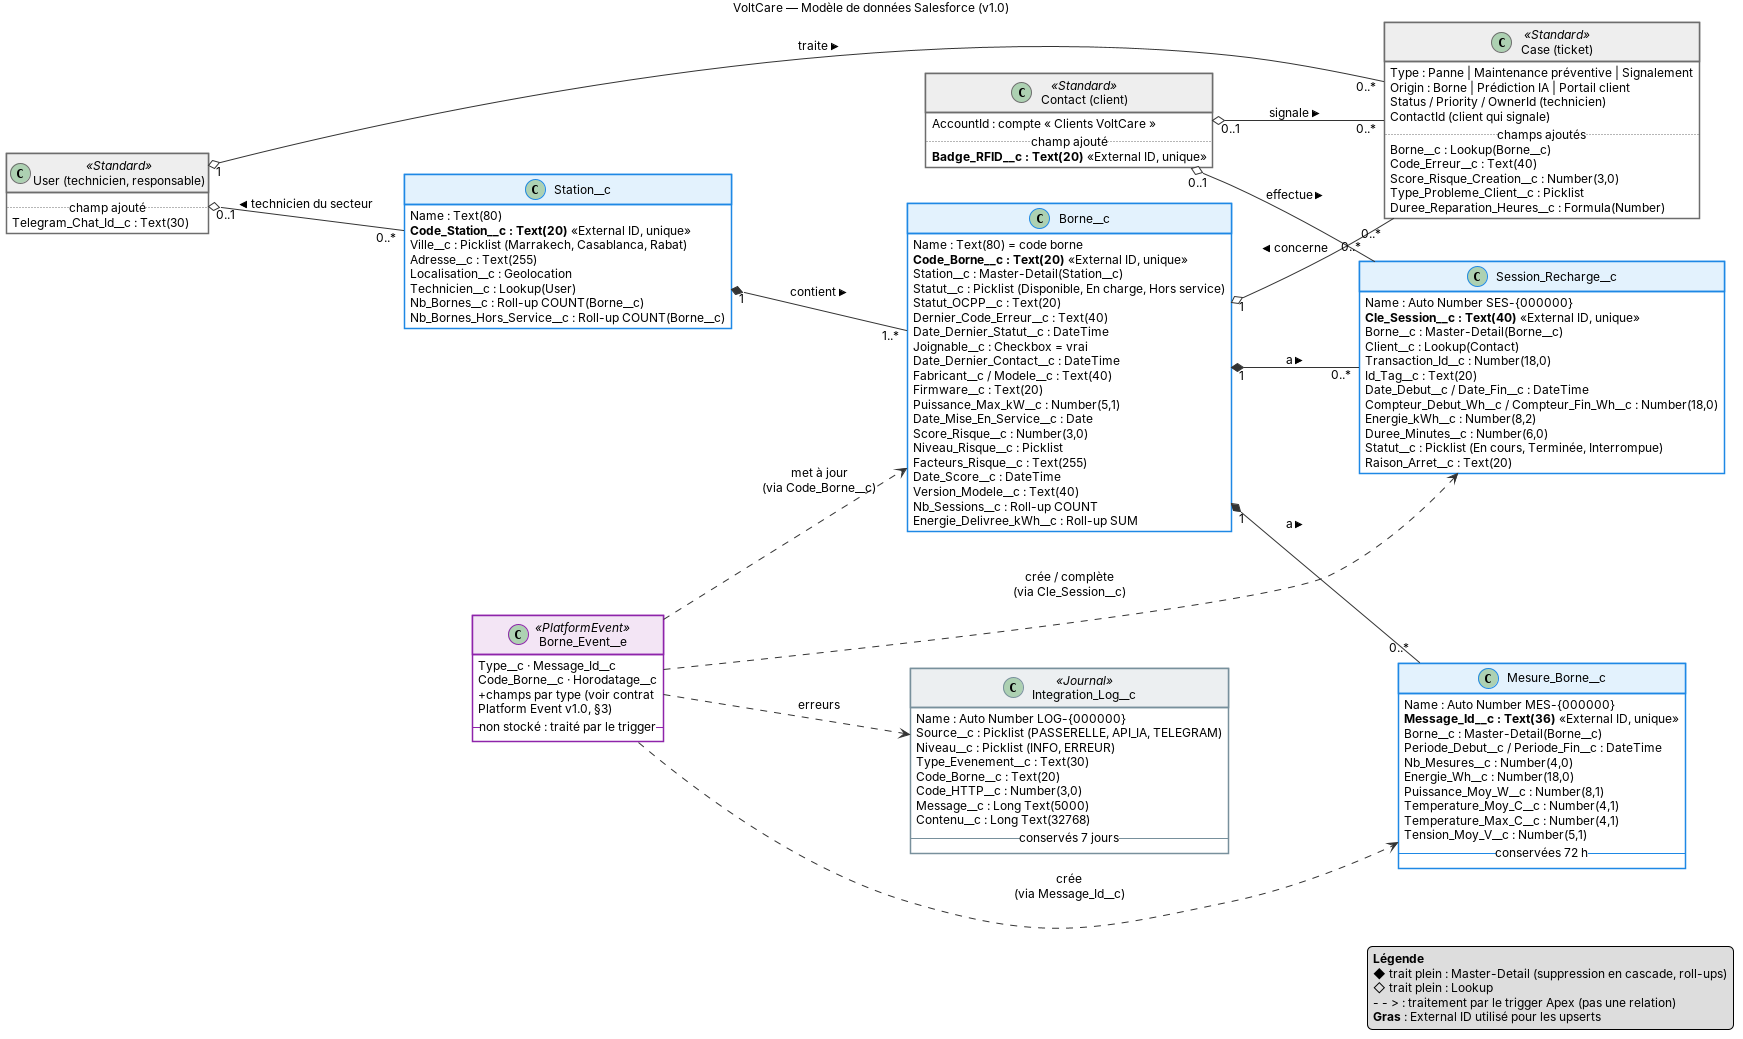
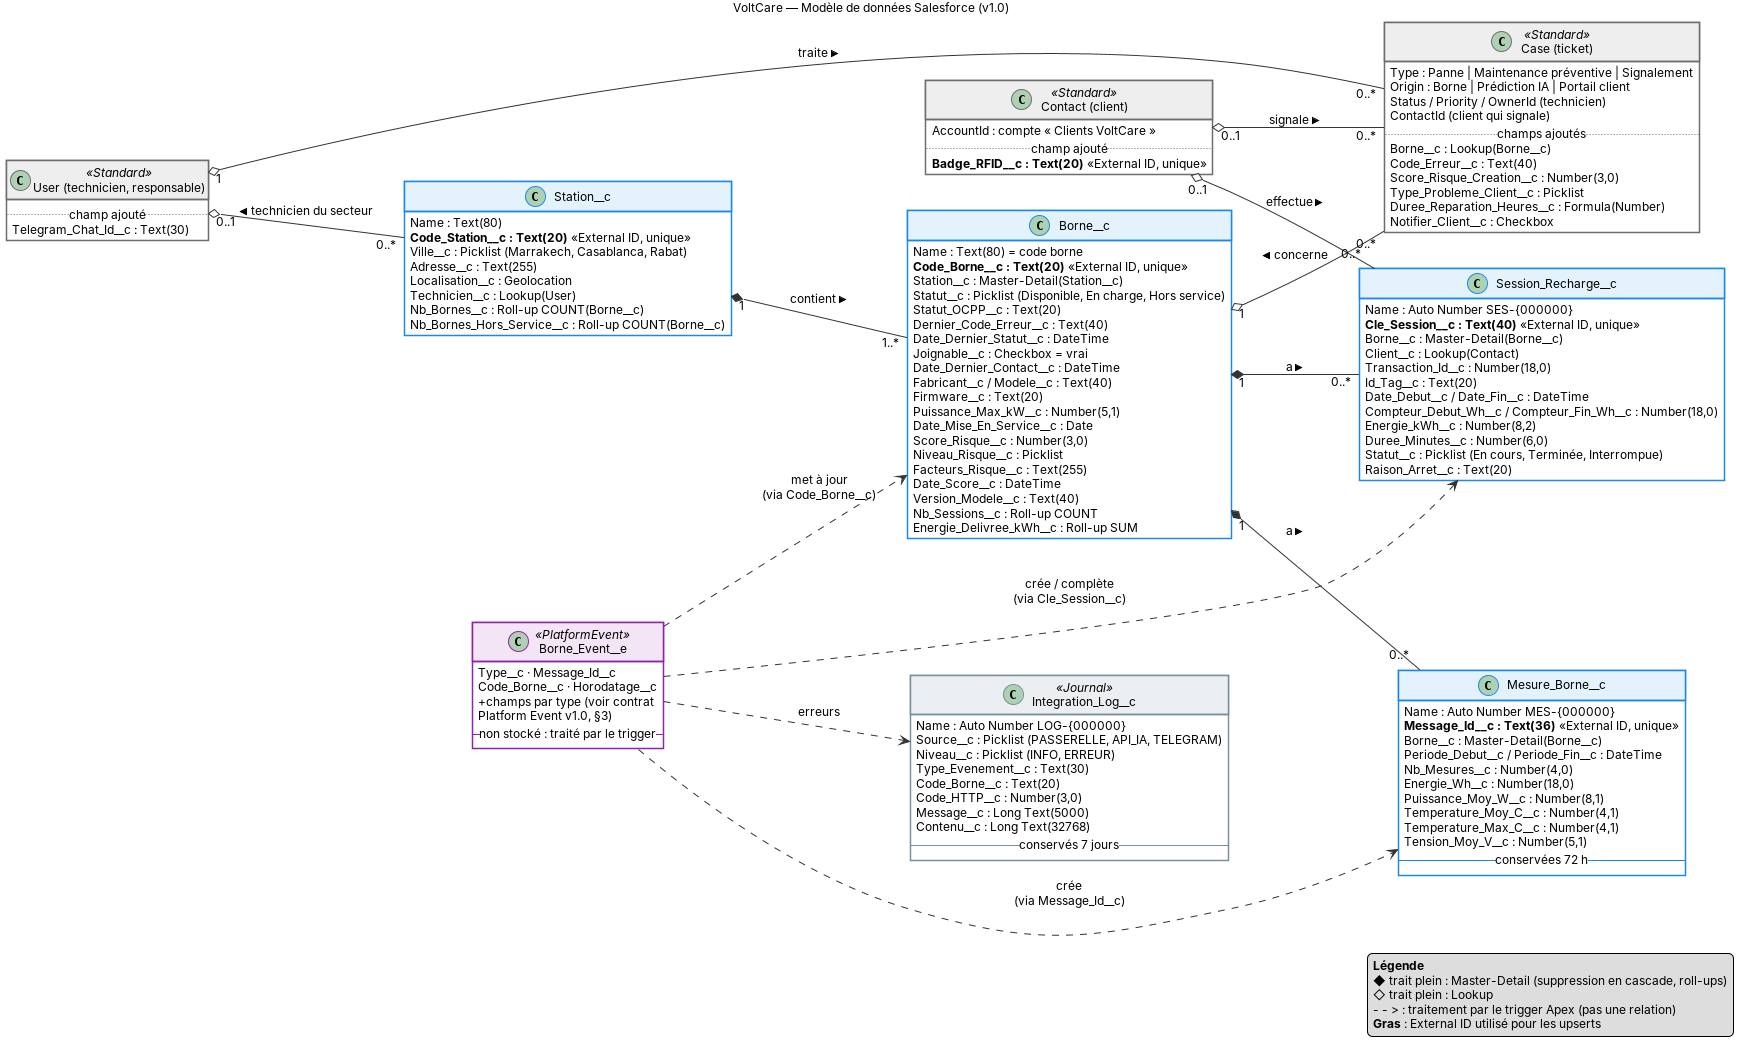
VC-20 à VC-23 : diagrammes de séquence + dictionnaire v1.1 (#9)

diff --git a/docs/conception/dictionnaire-donnees.md b/docs/conception/dictionnaire-donnees.md
@@ -2,7 +2,7 @@
 
 | | |
 |---|---|
-| **Version** | 1.0 |
+| **Version** | 1.1 |
 | **Sprint** | S2 — Conception |
 | **Diagramme** | `modele-donnees.puml` / `modele-donnees.png` |
 | **Contrats liés** | `contrat-mqtt.md`, `contrat-platform-event.md`, `contrat-api-ia.md` (v1.0) |
@@ -136,8 +136,11 @@ Colonne **Rempli par** : *Trigger* = trigger Apex sur `Borne_Event__e` · *IA* =
 | `Score_Risque_Creation__c` | Score à la création | Number(3,0) | | Flow | Pour un ticket préventif |
 | `Type_Probleme_Client__c` | Type de problème | Picklist : La recharge ne démarre pas, La recharge s'est arrêtée, Câble ou prise endommagé, Écran ou badge, Autre | | Portail | |
 | `Duree_Reparation_Heures__c` | Délai de réparation (h) | Formule Number : `(ClosedDate − CreatedDate) × 24` | | Système | Indicateur du tableau de bord (BF-07) |
+| `Notifier_Client__c` | Prévenir le client par email | Checkbox, faux par défaut | | Portail | Case « Me prévenir par email de l'avancement » du formulaire de signalement |
 
-**Règle** : à la clôture d'un ticket de type Panne, la borne repasse **Disponible** (BF-06).
+**Règles**
+- **Affectation** : un Flow avant enregistrement, commun aux 3 origines, renseigne `OwnerId = Borne__r.Station__r.Technicien__c`.
+- **Clôture** : à la clôture d'un ticket de type Panne, la borne repasse **Disponible** et `Date_Dernier_Statut__c` reçoit l'heure de clôture (BF-06).
 
 ---
 
@@ -202,4 +205,5 @@ Chaque enregistrement compte pour environ 2 Ko.
 
 | Version | Date | Modification |
 |---|---|---|
-| 1.0 | 10/11/2026 | Premier jet |
+| 1.0 | 10/11/2026 | Premier jet, décisions validées en équipe |
+| 1.1 | 10/11/2026 | Ajout de `Case.Notifier_Client__c` et des règles d'affectation et de clôture (issus des diagrammes de séquence) |
